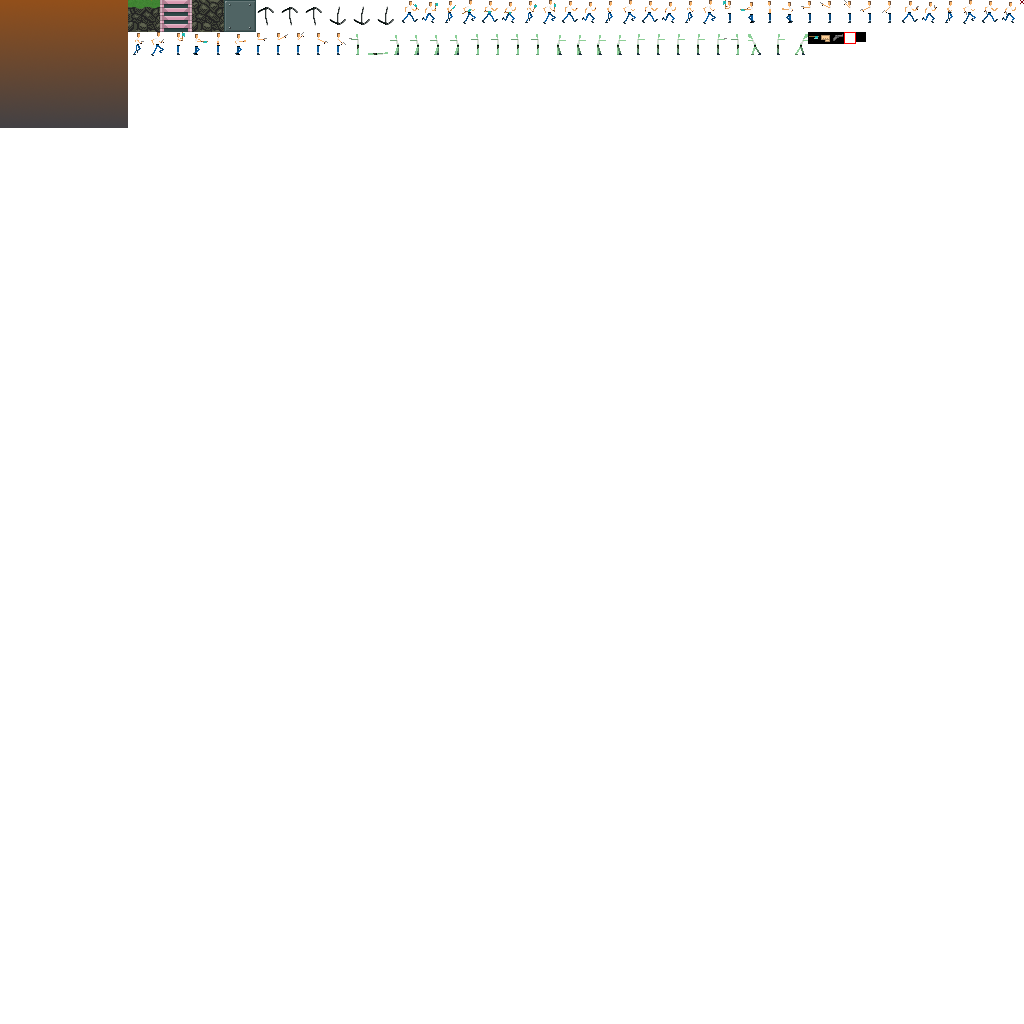
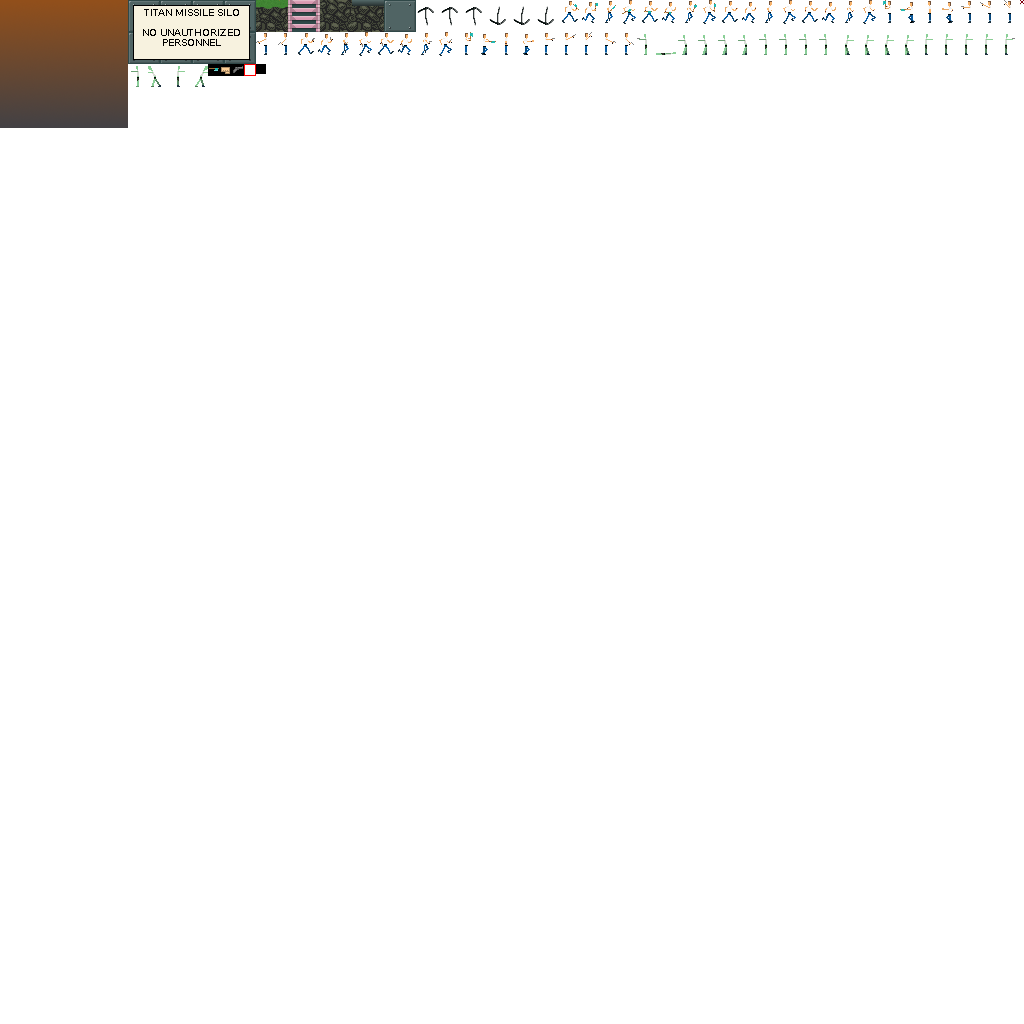
Added a sign

Changed region(s): [[0.125, 0.0, 1.0, 0.0938]]

diff --git a/game_view.py b/game_view.py
@@ -140,7 +140,9 @@ class TileTypes:
     LADDER              = 6
     LADDER_TOP          = 7
     TILE                = 8
-    Impassable          = set((GRASS,ROCK))
+    ROCK_FLOOR          = 9
+    SIGN1               = 10
+    Impassable          = set((GRASS,ROCK,ROCK_FLOOR))
     Ladders             = set((LADDER_TOP,LADDER))
     LadderTops          = set((LADDER_TOP,))
 
@@ -151,6 +153,8 @@ class TileData(object):
                      TileTypes.ROCK          : 'rock.png',
                      TileTypes.LADDER        : 'ladder.png',
                      TileTypes.TILE          : 'tile.png',
+                     TileTypes.ROCK_FLOOR    : 'rock_floor.png',
+                     TileTypes.SIGN1         : 'sign1.png',
                      TileTypes.LADDER_TOP    : 'ladder.png'}
 
     def __init__(self,type,pos):
@@ -224,6 +228,8 @@ class GameMap(object):
                      'l' : TileTypes.LADDER,
                      'L' : TileTypes.LADDER_TOP,
                      'p' : TileTypes.PLAYER,
+                     '+' : TileTypes.ROCK_FLOOR,
+                     's' : TileTypes.SIGN1,
                      'z' : TileTypes.ZOMBIE}
     def __init__(self,name,parent):
         self.size   = Point(128,92)
